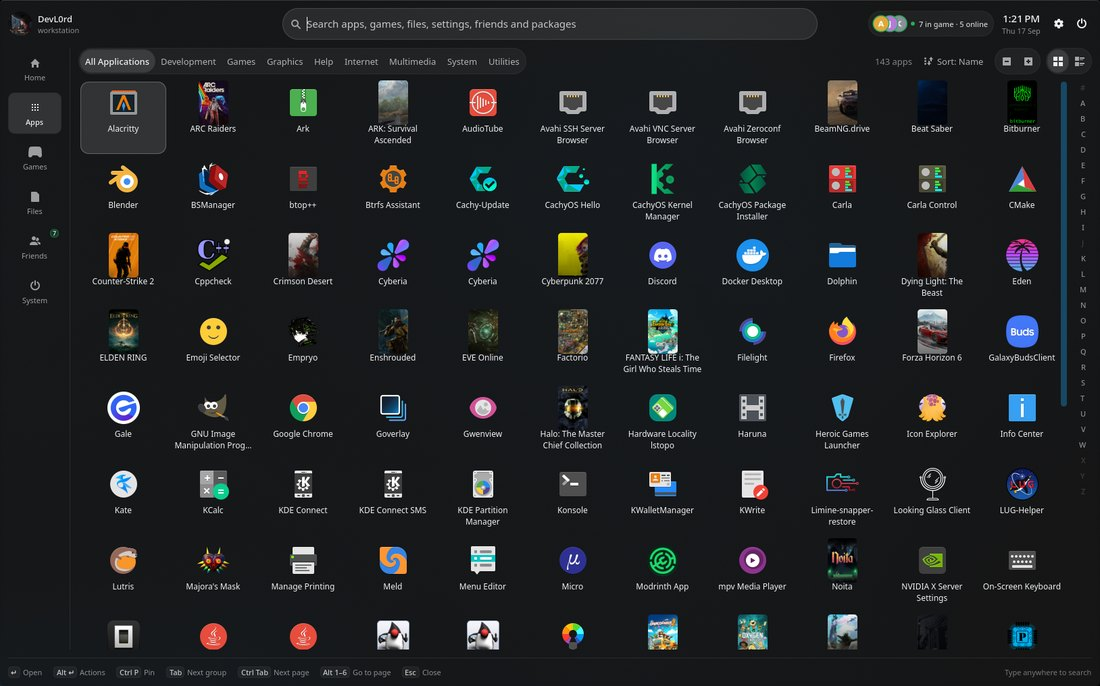
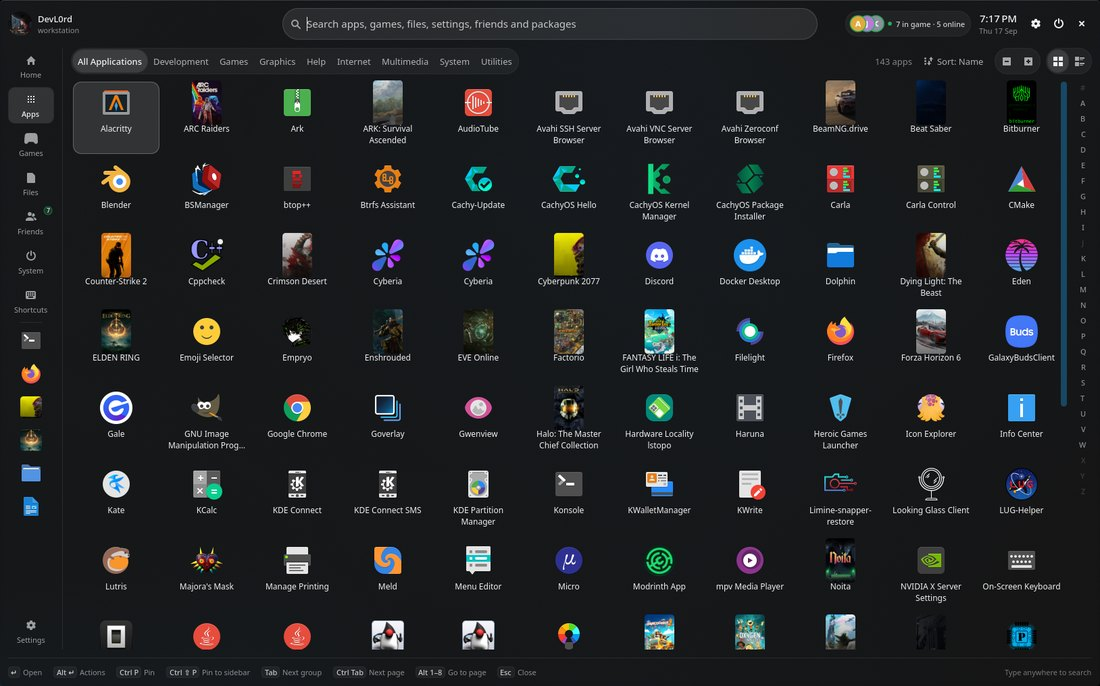
Show the Kontrol Panel, touch gestures and portrait monitors in the README

diff --git a/README.md b/README.md
@@ -56,7 +56,11 @@ That's it. The installer grabs what it needs, builds Konveyor for your exact KWi
 <table>
   <tr>
     <td>🔄 <b>Update</b></td>
-    <td>Run <code>./install.sh</code> again. It's safe to repeat and keeps your settings.</td>
+    <td>On Arch-based systems Konveyor updates itself with every system update, and rebuilds when KWin or Plasma update. Anywhere else, run <code>./install.sh</code> again. It's safe to repeat and keeps your settings.</td>
+  </tr>
+  <tr>
+    <td>📦 <b>From a package</b></td>
+    <td>Package builds run <code>./install.sh --aur</code>, so your package manager handles updates instead.</td>
   </tr>
   <tr>
     <td>🧹 <b>Remove</b></td>
@@ -108,6 +112,44 @@ Some windows don't belong in a row. Lift one out with a single key, move it and 
 
 <p align="center"><img alt="Floating a window out of the row and back" src="docs/media/floating.gif" width="88%"></p>
 
+### 📱 Portrait screens stack up
+
+<table>
+  <tr>
+    <td width="36%" valign="top"><img alt="Windows stacking two to a column on a portrait monitor" src="docs/media/portrait.gif"></td>
+    <td valign="top">
+      <br>
+      Turn a monitor on its side and Konveyor turns with it. Every column fills the full width and holds two windows, one above the other, so a tall screen shows two apps at a time without squeezing either of them.
+      <br><br>
+      New windows fill the focused column first, then start the next one. Rotate the screen back and the row returns to your normal widths.
+      <br><br>
+      It's just a monitor profile, so you can pick how many windows stack, or give any other screen the same treatment, under <b>Settings → Monitors</b>.
+    </td>
+  </tr>
+</table>
+
+<a id="touch"></a>
+
+### 👆 Made for touch
+
+Touchpads and touchscreens get the whole row under your fingers. Slide three fingers to scroll the row or change workspace, use four to carry windows around, and tap to resize.
+
+<p align="center"><img alt="Touch gestures scrolling the row, switching workspaces, merging windows and cycling widths" src="docs/media/touch.gif" width="88%"></p>
+
+| Gesture | What happens |
+| :-- | :-- |
+| 3 fingers ← → | Scroll the row |
+| 3 fingers ↑ ↓ | Switch to the workspace above or below |
+| 4 fingers ← → | Merge the window into the next column, or pop it back out |
+| 4 fingers ↑ ↓ | Move the window up or down its column, then to the next workspace |
+| 4-finger pinch | Open or close KDE's Overview |
+| 3-finger tap | Cycle the column width |
+| 4-finger tap | Open the Kontrol Panel |
+| Drag a title bar on a touchscreen | Scroll the row |
+| Hold a title bar on a touchscreen, then drag | Move the window |
+
+The swipes, pinch and taps work on touchpads and touchscreens alike. Pick other finger counts, flip natural swiping or hand a gesture back to KDE on the **Touch & Gestures** settings page.
+
 ### ✨ And the little things
 
 <table>
@@ -139,6 +181,20 @@ Some windows don't belong in a row. Lift one out with a single key, move it and 
       Panels, widgets, KRunner, Overview, notifications, screenshots and Alt+Tab all keep working.
     </td>
   </tr>
+  <tr>
+    <td valign="top">
+      <h4>🧲 Apps stay together</h4>
+      A second window from an app opens beside it or stacks under it, and new windows can fill the focused column before starting another.
+    </td>
+    <td valign="top">
+      <h4>💬 Extra windows float</h4>
+      An app's first window tiles and its friends lists, chats and settings float above the row. Steam does this out of the box.
+    </td>
+    <td valign="top">
+      <h4>💾 Remembers your windows</h4>
+      Reopen apps at the width they had last time and floating windows where you left them. Minimized windows come back to the same spot.
+    </td>
+  </tr>
 </table>
 
 <p align="right"><a href="#top">back to top ⬆</a></p>
@@ -151,24 +207,63 @@ Some windows don't belong in a row. Lift one out with a single key, move it and 
 
 Konveyor comes with a set of Plasma widgets built to match: a full-screen launcher, system and process monitors, a router dashboard, a live system log and your Steam friends. Each one sits in your panel as a small, steady button and opens into a searchable dashboard. They also work as desktop widgets.
 
-<p align="center"><img alt="The Kontrol Panel opening, searching and browsing games" src="docs/media/widgets/launcher.gif" width="92%"></p>
+<p align="center"><img alt="The Kontrol Panel opening, searching, browsing games, shortcuts and settings" src="docs/media/widgets/launcher.gif" width="92%"></p>
 
 ### 🚀 Kontrol Panel
 
-Press <kbd>Meta</kbd> and the desktop dims behind the Kontrol Panel, one launcher for everything. Start typing and apps, games, friends, settings, files, maths, commands and even installable packages show up together, best match first. <kbd>Meta</kbd> + <kbd>G</kbd> opens straight on your games.
+Press <kbd>Meta</kbd> and the desktop dims behind the Kontrol Panel, one place for your apps, games, friends, files, shortcuts and every Konveyor setting. Start typing and apps, games, friends, settings, shortcuts, files, maths, unit conversions, commands and even installable packages show up together, best match first.
 
 <table>
   <tr>
-    <td width="50%"><img alt="Launcher home page" src="docs/media/widgets/launcher-home.jpg"><p align="center"><b>Home</b> — pins, friends playing now and games to jump back into</p></td>
-    <td width="50%"><img alt="Launcher search results" src="docs/media/widgets/launcher-search.jpg"><p align="center"><b>Search</b> — grouped results, with Shelly packages at the end</p></td>
+    <td width="50%"><img alt="Kontrol Panel home page" src="docs/media/widgets/launcher-home.jpg"><p align="center"><b>Home</b> — pins and pinned folders, friends playing now and games to jump back into</p></td>
+    <td width="50%"><img alt="Kontrol Panel search finding an app, settings, shortcuts and a sum" src="docs/media/widgets/launcher-search.gif"><p align="center"><b>Search</b> — best match first, then settings, shortcuts, answers and packages to install with Shelly</p></td>
   </tr>
   <tr>
-    <td><img alt="Launcher games in cover flow" src="docs/media/widgets/launcher-games.jpg"><p align="center"><b>Games</b> — grid, banners, list, carousel and cover flow</p></td>
-    <td><img alt="Launcher apps page" src="docs/media/widgets/launcher-apps.jpg"><p align="center"><b>Apps</b> — categories, an A–Z bar, sorting and zoom</p></td>
+    <td><img alt="Kontrol Panel games in cover flow" src="docs/media/widgets/launcher-games.jpg"><p align="center"><b>Games</b> — grid, banners, list, carousel and cover flow</p></td>
+    <td><img alt="Kontrol Panel apps page" src="docs/media/widgets/launcher-apps.jpg"><p align="center"><b>Apps</b> — categories, an A–Z bar, sorting and zoom</p></td>
   </tr>
   <tr>
-    <td><img alt="Launcher friends page" src="docs/media/widgets/launcher-friends.jpg"><p align="center"><b>Friends</b> — who's online and what they're playing</p></td>
-    <td><img alt="Launcher system page" src="docs/media/widgets/launcher-system.jpg"><p align="center"><b>System</b> — lock, sleep, restart and your settings</p></td>
+    <td><img alt="Kontrol Panel friends page" src="docs/media/widgets/launcher-friends.jpg"><p align="center"><b>Friends</b> — who's online and what they're playing</p></td>
+    <td><img alt="Kontrol Panel system page" src="docs/media/widgets/launcher-system.jpg"><p align="center"><b>System</b> — lock, sleep, restart and your settings</p></td>
+  </tr>
+  <tr>
+    <td><img alt="Kontrol Panel shortcuts page with animated previews" src="docs/media/widgets/launcher-shortcuts.gif"><p align="center"><b>Shortcuts</b> — every key and gesture by category, with a live diagram of what each Konveyor action does</p></td>
+    <td><img alt="Kontrol Panel settings on the Touch and Gestures page" src="docs/media/widgets/launcher-settings.jpg"><p align="center"><b>Settings</b> — all of Konveyor's settings, applied instantly with Undo</p></td>
+  </tr>
+</table>
+
+#### 📌 Pin anything to the sidebar
+
+<table>
+  <tr>
+    <td width="60%"><img alt="Pinning a game and a folder to the Kontrol Panel sidebar" src="docs/media/widgets/launcher-pins.gif"></td>
+    <td valign="top">
+      <br>
+      Keep your favourite apps, games, files and folders one click away under the pages on the left. Right-click anything and choose <b>Pin to sidebar</b>, press <kbd>Ctrl</kbd> + <kbd>Shift</kbd> + <kbd>P</kbd>, or drag it onto the sidebar. Drag pins to reorder them.
+      <br><br>
+      On a touchscreen, press and hold anything in the Kontrol Panel for the same menu.
+    </td>
+  </tr>
+</table>
+
+<table>
+  <tr>
+    <td><kbd>Meta</kbd></td>
+    <td>Open the Kontrol Panel</td>
+    <td><kbd>Meta</kbd> + <kbd>G</kbd></td>
+    <td>Open it on your games</td>
+  </tr>
+  <tr>
+    <td><kbd>Meta</kbd> + <kbd>K</kbd></td>
+    <td>Open it on Shortcuts</td>
+    <td><kbd>Ctrl</kbd> + <kbd>,</kbd></td>
+    <td>Jump to Settings</td>
+  </tr>
+  <tr>
+    <td><kbd>Alt</kbd> + <kbd>1</kbd> … <kbd>8</kbd></td>
+    <td>Go to a page</td>
+    <td><kbd>Ctrl</kbd> + <kbd>P</kbd></td>
+    <td>Pin to Home</td>
   </tr>
 </table>
 
@@ -206,11 +301,11 @@ Speeds, WiFi radios, every device, AdGuard Home and a speed test for ASUS router
 <table>
   <tr>
     <td width="50%" valign="top"><img alt="System Log with severity tabs and search" src="docs/media/widgets/system-log.gif"><p align="center"><b>System Log</b> — the live journal, by severity, searchable across everything</p></td>
-    <td width="50%" valign="top"><img alt="App Portal popup" src="docs/media/widgets/app-portal.gif"><p align="center"><b>App Portal</b> — the launcher in a panel popup</p></td>
+    <td width="50%" valign="top"><img alt="App Portal popup" src="docs/media/widgets/app-portal.gif"><p align="center"><b>App Portal</b> — the Kontrol Panel in a compact panel popup</p></td>
   </tr>
   <tr>
     <td valign="top"><img alt="Steam Friends popup" src="docs/media/widgets/steam-friends.gif"><p align="center"><b>Steam Friends</b> — online, in game, join and chat</p></td>
-    <td valign="top" align="center"><br><img alt="Keyboard Toggle and Screen Rotate buttons" src="docs/media/widgets/toggles.png"><p align="center"><b>Keyboard Toggle</b> and <b>Screen Rotate</b> — one tap for the on-screen keyboard or a quarter turn</p></td>
+    <td valign="top" align="center"><br><img alt="Keyboard Toggle and Screen Rotate buttons" src="docs/media/widgets/toggles.png"><p align="center"><b>Keyboard Toggle</b> and <b>Screen Rotate</b> — one tap opens or closes the on-screen keyboard, or gives the screen a quarter turn</p></td>
   </tr>
 </table>
 
@@ -245,13 +340,13 @@ Everything the widgets need is installed for you, and one background service fee
 
 ## 🎛 Settings that show you
 
-Press <kbd>Meta</kbd> + <kbd>K</kbd> and open **Settings** at the bottom of the Kontrol Panel, or hit the gear. Every option has a live preview, changes apply instantly, and Undo takes them back.
+Every Konveyor setting lives in the Kontrol Panel. Press <kbd>Meta</kbd> + <kbd>K</kbd> and open **Settings** at the bottom of the sidebar, hit the gear, or press <kbd>Ctrl</kbd> + <kbd>,</kbd>. Every option has a live preview, changes apply instantly, and Undo takes them back.
 
 <p align="center"><img alt="A tour through the Konveyor settings pages" src="docs/media/settings-tour.gif" width="88%"></p>
 
 <table>
   <tr>
-    <td width="50%"><img alt="Layout settings" src="docs/media/settings-layout.png"><p align="center"><b>Layout</b> — gaps, column widths and where new windows land</p></td>
+    <td width="50%"><img alt="Layout settings" src="docs/media/settings-layout.png"><p align="center"><b>Layout</b> — gaps, column widths, where new windows land and which apps stay together</p></td>
     <td width="50%"><img alt="Look settings" src="docs/media/settings-look.png"><p align="center"><b>Look</b> — focus ring, borders, tabs and corners</p></td>
   </tr>
   <tr>
@@ -260,7 +355,14 @@ Press <kbd>Meta</kbd> + <kbd>K</kbd> and open **Settings** at the bottom of the 
   </tr>
   <tr>
     <td><img alt="Window rule settings" src="docs/media/settings-rules.png"><p align="center"><b>Window rules</b> — pick an app, see what matches, decide how it behaves</p></td>
-    <td><img alt="Settings overview" src="docs/media/settings-hub.png"><p align="center"><b>Everything in one place</b> — search any setting in seconds</p></td>
+    <td><img alt="Searching Konveyor settings and shortcuts from the Kontrol Panel" src="docs/media/settings-hub.png"><p align="center"><b>Search everything</b> — type in the Kontrol Panel and jump straight to any setting or shortcut</p></td>
+  </tr>
+</table>
+
+<table>
+  <tr>
+    <td width="50%"><img alt="Touch and gesture settings" src="docs/media/settings-touch.png"><p align="center"><b>Touch &amp; Gestures</b> — finger counts, swipes, pinches, taps and long presses</p></td>
+    <td width="50%"><img alt="Portrait monitor profile settings" src="docs/media/settings-portrait.png"><p align="center"><b>Monitor profiles</b> — portrait screens get full-width columns that stack two windows</p></td>
   </tr>
 </table>
 
@@ -269,7 +371,7 @@ Press <kbd>Meta</kbd> + <kbd>K</kbd> and open **Settings** at the bottom of the 
 <br>
 <table>
   <tr>
-    <td width="50%"><img alt="Mouse and gesture settings" src="docs/media/settings-mouse.png"><p align="center"><b>Mouse &amp; gestures</b> — hot corners, edge scrolling, title bar drags</p></td>
+    <td width="50%"><img alt="Mouse settings" src="docs/media/settings-mouse.png"><p align="center"><b>Mouse</b> — focus follows mouse, edge scrolling, title bar drags</p></td>
     <td width="50%"><img alt="Monitor settings" src="docs/media/settings-monitors.png"><p align="center"><b>Monitors</b> — per-screen profiles drawn to scale</p></td>
   </tr>
   <tr>
@@ -303,12 +405,8 @@ Press <kbd>Meta</kbd> + <kbd>K</kbd> and open **Settings** at the bottom of the 
 | <kbd>Meta</kbd> + <kbd>K</kbd> | Open the Kontrol Panel on Shortcuts |
 | <kbd>Meta</kbd> | Open the Kontrol Panel |
 | <kbd>Meta</kbd> + <kbd>G</kbd> | Open the Kontrol Panel on your games |
-| 3 fingers ←→ on the touchpad or touchscreen | Scroll the row |
-| 3 fingers ↑↓ on the touchpad or touchscreen | Switch workspace |
-| 4 fingers ←→ | Merge the window into the next column, or pop it out |
-| 4 fingers ↑↓ | Move the window up or down its column, then to the next workspace |
-| 4-finger pinch | Open or close KDE's Overview |
-| Hold a title bar on a touchscreen, then drag | Move the window |
+
+On a touchpad or touchscreen, see [Made for touch](#touch) for every gesture.
 
 > [!NOTE]
 > Konveyor leaves KDE's own shortcuts alone — <kbd>Alt</kbd> + <kbd>F4</kbd>, <kbd>Meta</kbd> + <kbd>L</kbd>, screenshots and the rest work as always. Change anything from the **Shortcuts** settings page. The 3- and 4-finger swipes replace KDE's desktop-switching and Overview swipes; pick other finger counts, or turn gestures off, on the **Touch & Gestures** settings page.
